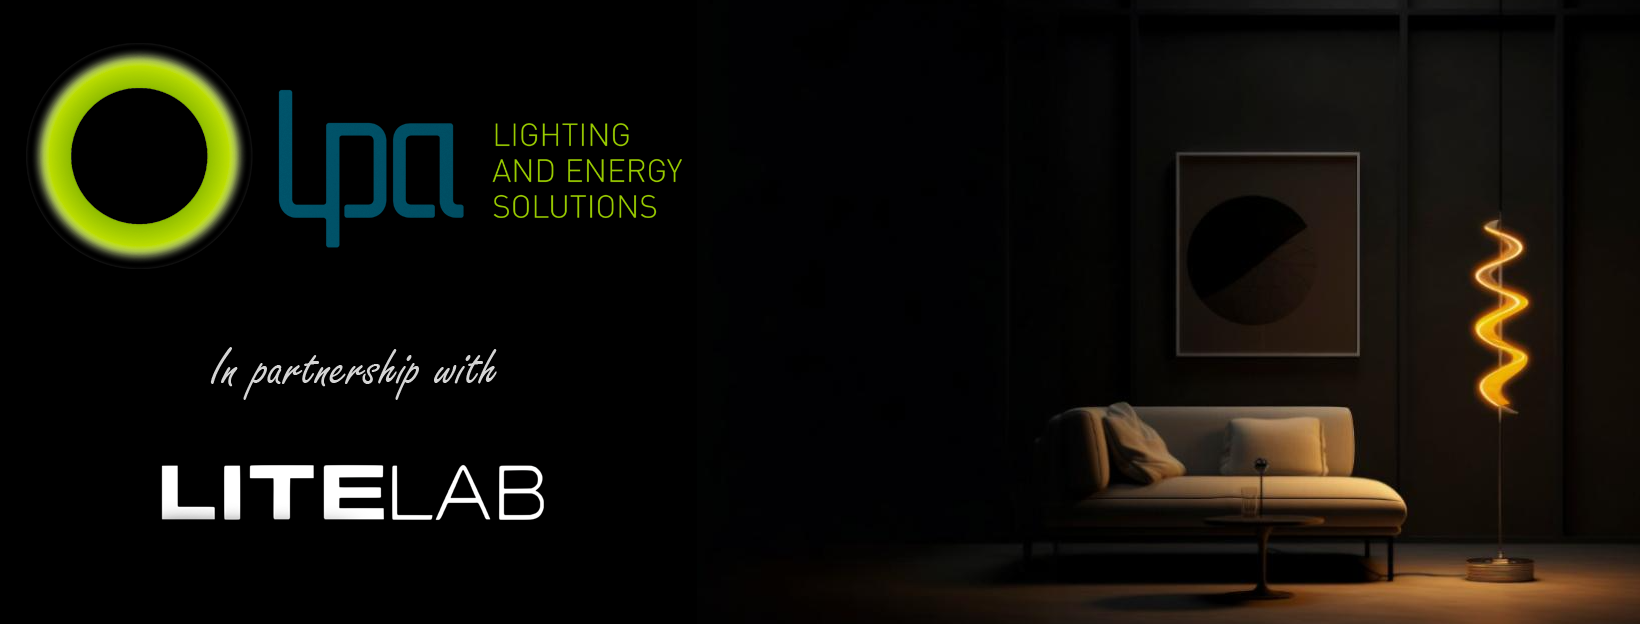
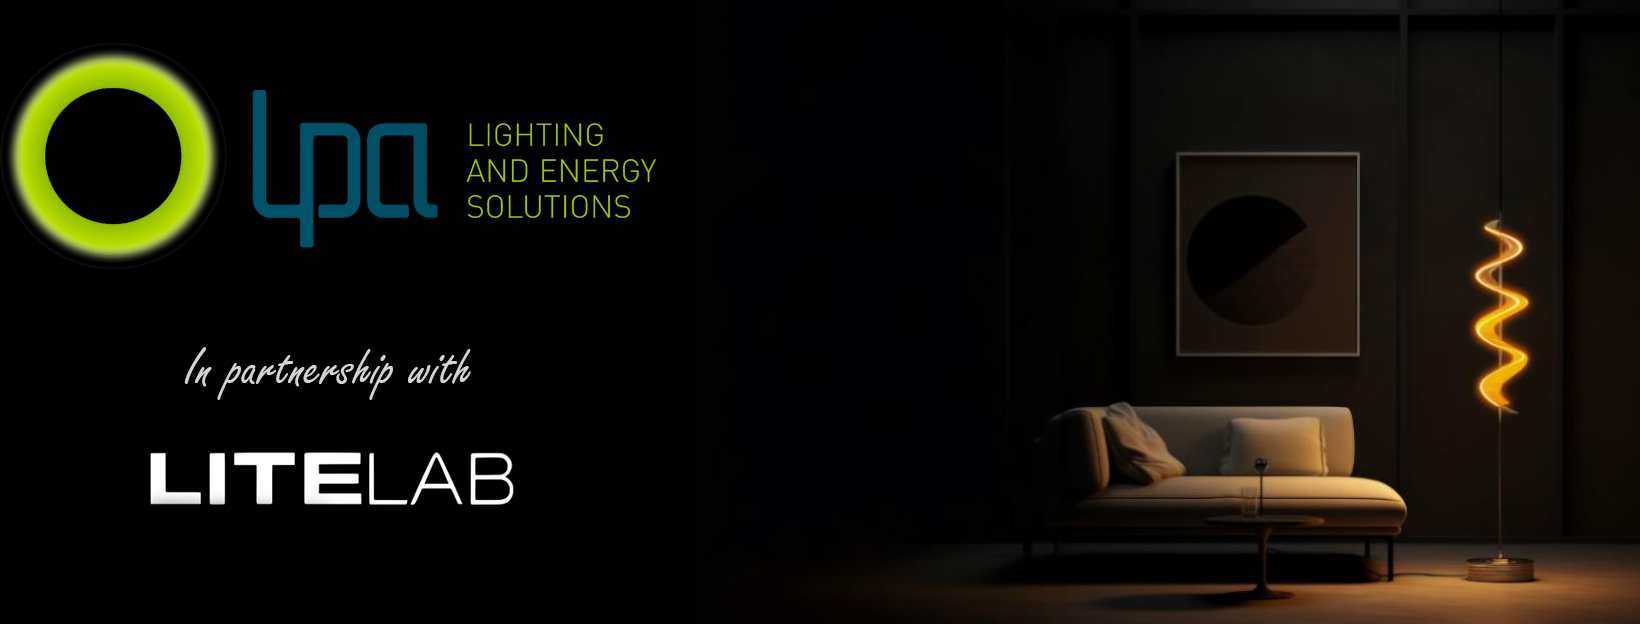
iranga

Changed region(s): [[0.0, 0.0609, 0.4043, 0.4263], [0.0933, 0.7003, 0.3421, 0.8526], [0.0933, 0.5481, 0.311, 0.6394]]

diff --git a/templates/iranga.php b/templates/iranga.php
@@ -60,11 +60,8 @@
             border-radius: 15px !important;
             position: relative;
             text-align: center;
-            background-image: url('banner_img/client_banner/iranga-b.png');
             /* border-bottom-left-radius: 50% 20%;
             border-bottom-right-radius: 50% 20%; */
-            background-position: left;
-            background-size: cover;
             /* min-height: 150px; */
         }
 
@@ -102,6 +99,7 @@
             justify-content: center;
             align-items: center;
             z-index: 9999;
+            /* margin-top: -110px; */
 
         }
 
@@ -270,7 +268,7 @@
         }
 
         .portfolio-button {
-            background: linear-gradient(135deg, var(--secondary) 0%, #e0b04a 100%);
+            background: linear-gradient(135deg, var(--secondary) 0%, var(--primary) 100%);
             border-radius: 12px;
             margin-bottom: 12px;
             padding: 15px 20px;
@@ -309,7 +307,7 @@
             font-weight: 600;
             font-size: 16px;
             margin-bottom: 3px;
-            color: var(--primary);
+            color: white;
         }
 
         .portfolio-subtitle {
@@ -488,7 +486,8 @@
         <div class="row p-0 m-p justify-content-center">
             <div class="col-12 col-md-10 col-lg-6 p-0 m-0">
                 <div class="custom-card">
-                    <div class="card-header">
+                    <div class="card-header p-0">
+                        <img src="banner_img/client_banner/iranga-b.png" alt="Banner" style="width: 100%; height: auto; border-radius: 15px;" />
                         <!-- <div class="company-logos">
                             <img src="logo_img/client_logo/iranga-1-l.png" alt="Company Logo 1">
                             <img src="logo_img/client_logo/iranga-2-l.png" alt="Company Logo 2">
@@ -504,26 +503,14 @@
                             <h2 class="name text-center mt-3">Iranga Kodikara</h2>
                             <div class="position text-center">Country Director</div>
                             <p class="about text-center">
-                                Experienced business leader with over 15 years in the lighting industry. Passionate about innovative lighting solutions and sustainable business practices.
+                                Seasoned lighting industry leader with 18+ years of experience in innovative solutions, sustainable growth, and strategic leadership across commercial and residential sectors.
                             </p>
                         </div>
 
                         <div class="contact-info">
-                            <div class="contact-item">
-                                <div class="row w-100">
-                                    <div class="col-12">
-                                        <div class="row">
-                                            <div class="col-6 d-inline-flex align-items-center" onclick="window.open('tel:+94761316995', '_blank')">
-                                                <i class="fas fa-phone-alt" style="font-size: 12px;"></i>
-                                                <div class="contact-text" style="font-size: 12px;">+94 76 131 6995</div>
-                                            </div>
-                                            <div class="col-6 d-inline-flex align-items-center" onclick="window.open('tel:+918925108432', '_blank')">
-                                                <i class="fas fa-phone-alt" style="font-size: 12px;"></i>
-                                                <div class="contact-text" style="font-size: 12px;">+91 8925108432</div>
-                                            </div>
-                                        </div>
-                                    </div>
-                                </div>
+                            <div class="contact-item" onclick="window.open('mailto:iranga.kodikara@lpalighting.com', '_blank')">
+                                <i class="fas fa-phone-alt"></i>
+                                <div class="contact-text">+91 8925108432</div>
                             </div>
 
                             <div class="contact-item" onclick="window.open('mailto:iranga.kodikara@lpalighting.com', '_blank')">
@@ -550,16 +537,13 @@
                         <div class="section-title">CONNECT WITH ME</div>
 
                         <div class="social-icons">
-                            <a href="#" class="social-icon">
+                            <a target="_blank" href="https://www.linkedin.com/in/iranga-kodikara-6133a61a5?utm_source=share&utm_campaign=share_via&utm_content=profile&utm_medium=android_app" class="social-icon">
                                 <i class="fab fa-linkedin-in"></i>
                             </a>
-                            <a href="#" class="social-icon">
-                                <i class="fab fa-twitter"></i>
-                            </a>
-                            <a href="#" class="social-icon">
+                            <a target="_blank" href="https://www.facebook.com/share/1GEUtXwhWv/" class="social-icon">
                                 <i class="fab fa-facebook-f"></i>
                             </a>
-                            <a href="#" class="social-icon">
+                            <a target="_blank" href="https://www.instagram.com/lpalighting?igsh=MWdxcjhnYmRkOW95ZQ==" class="social-icon">
                                 <i class="fab fa-instagram"></i>
                             </a>
                         </div>
